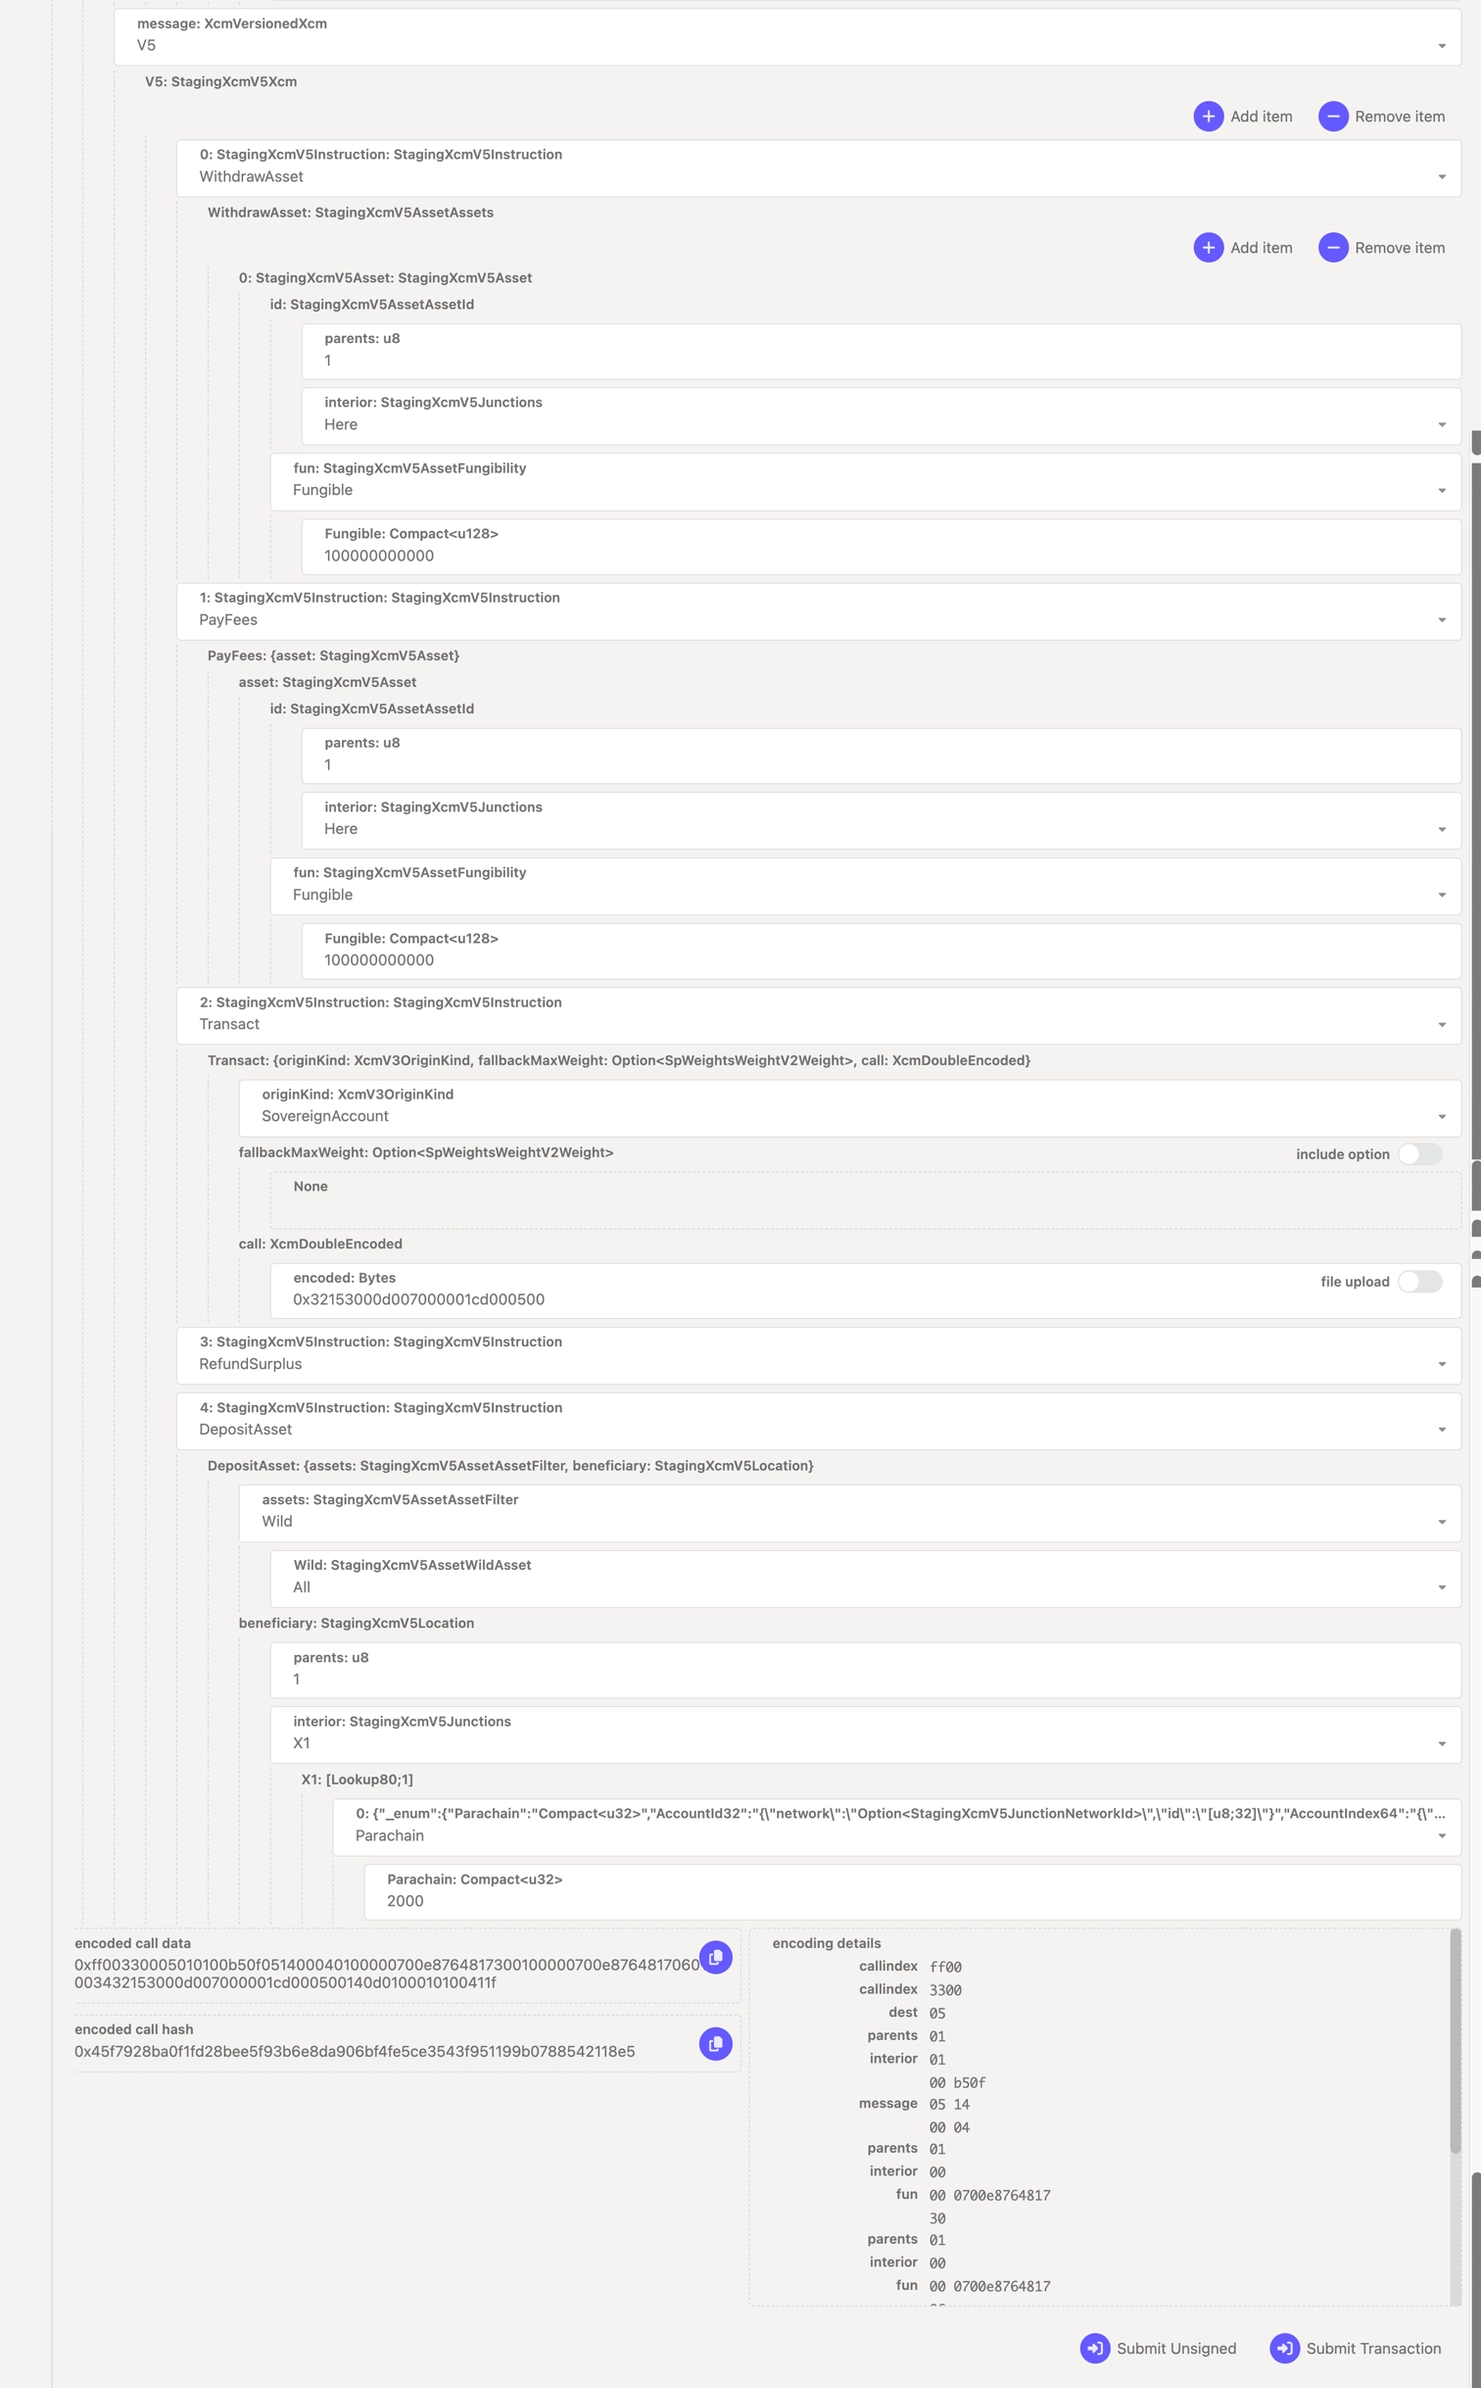
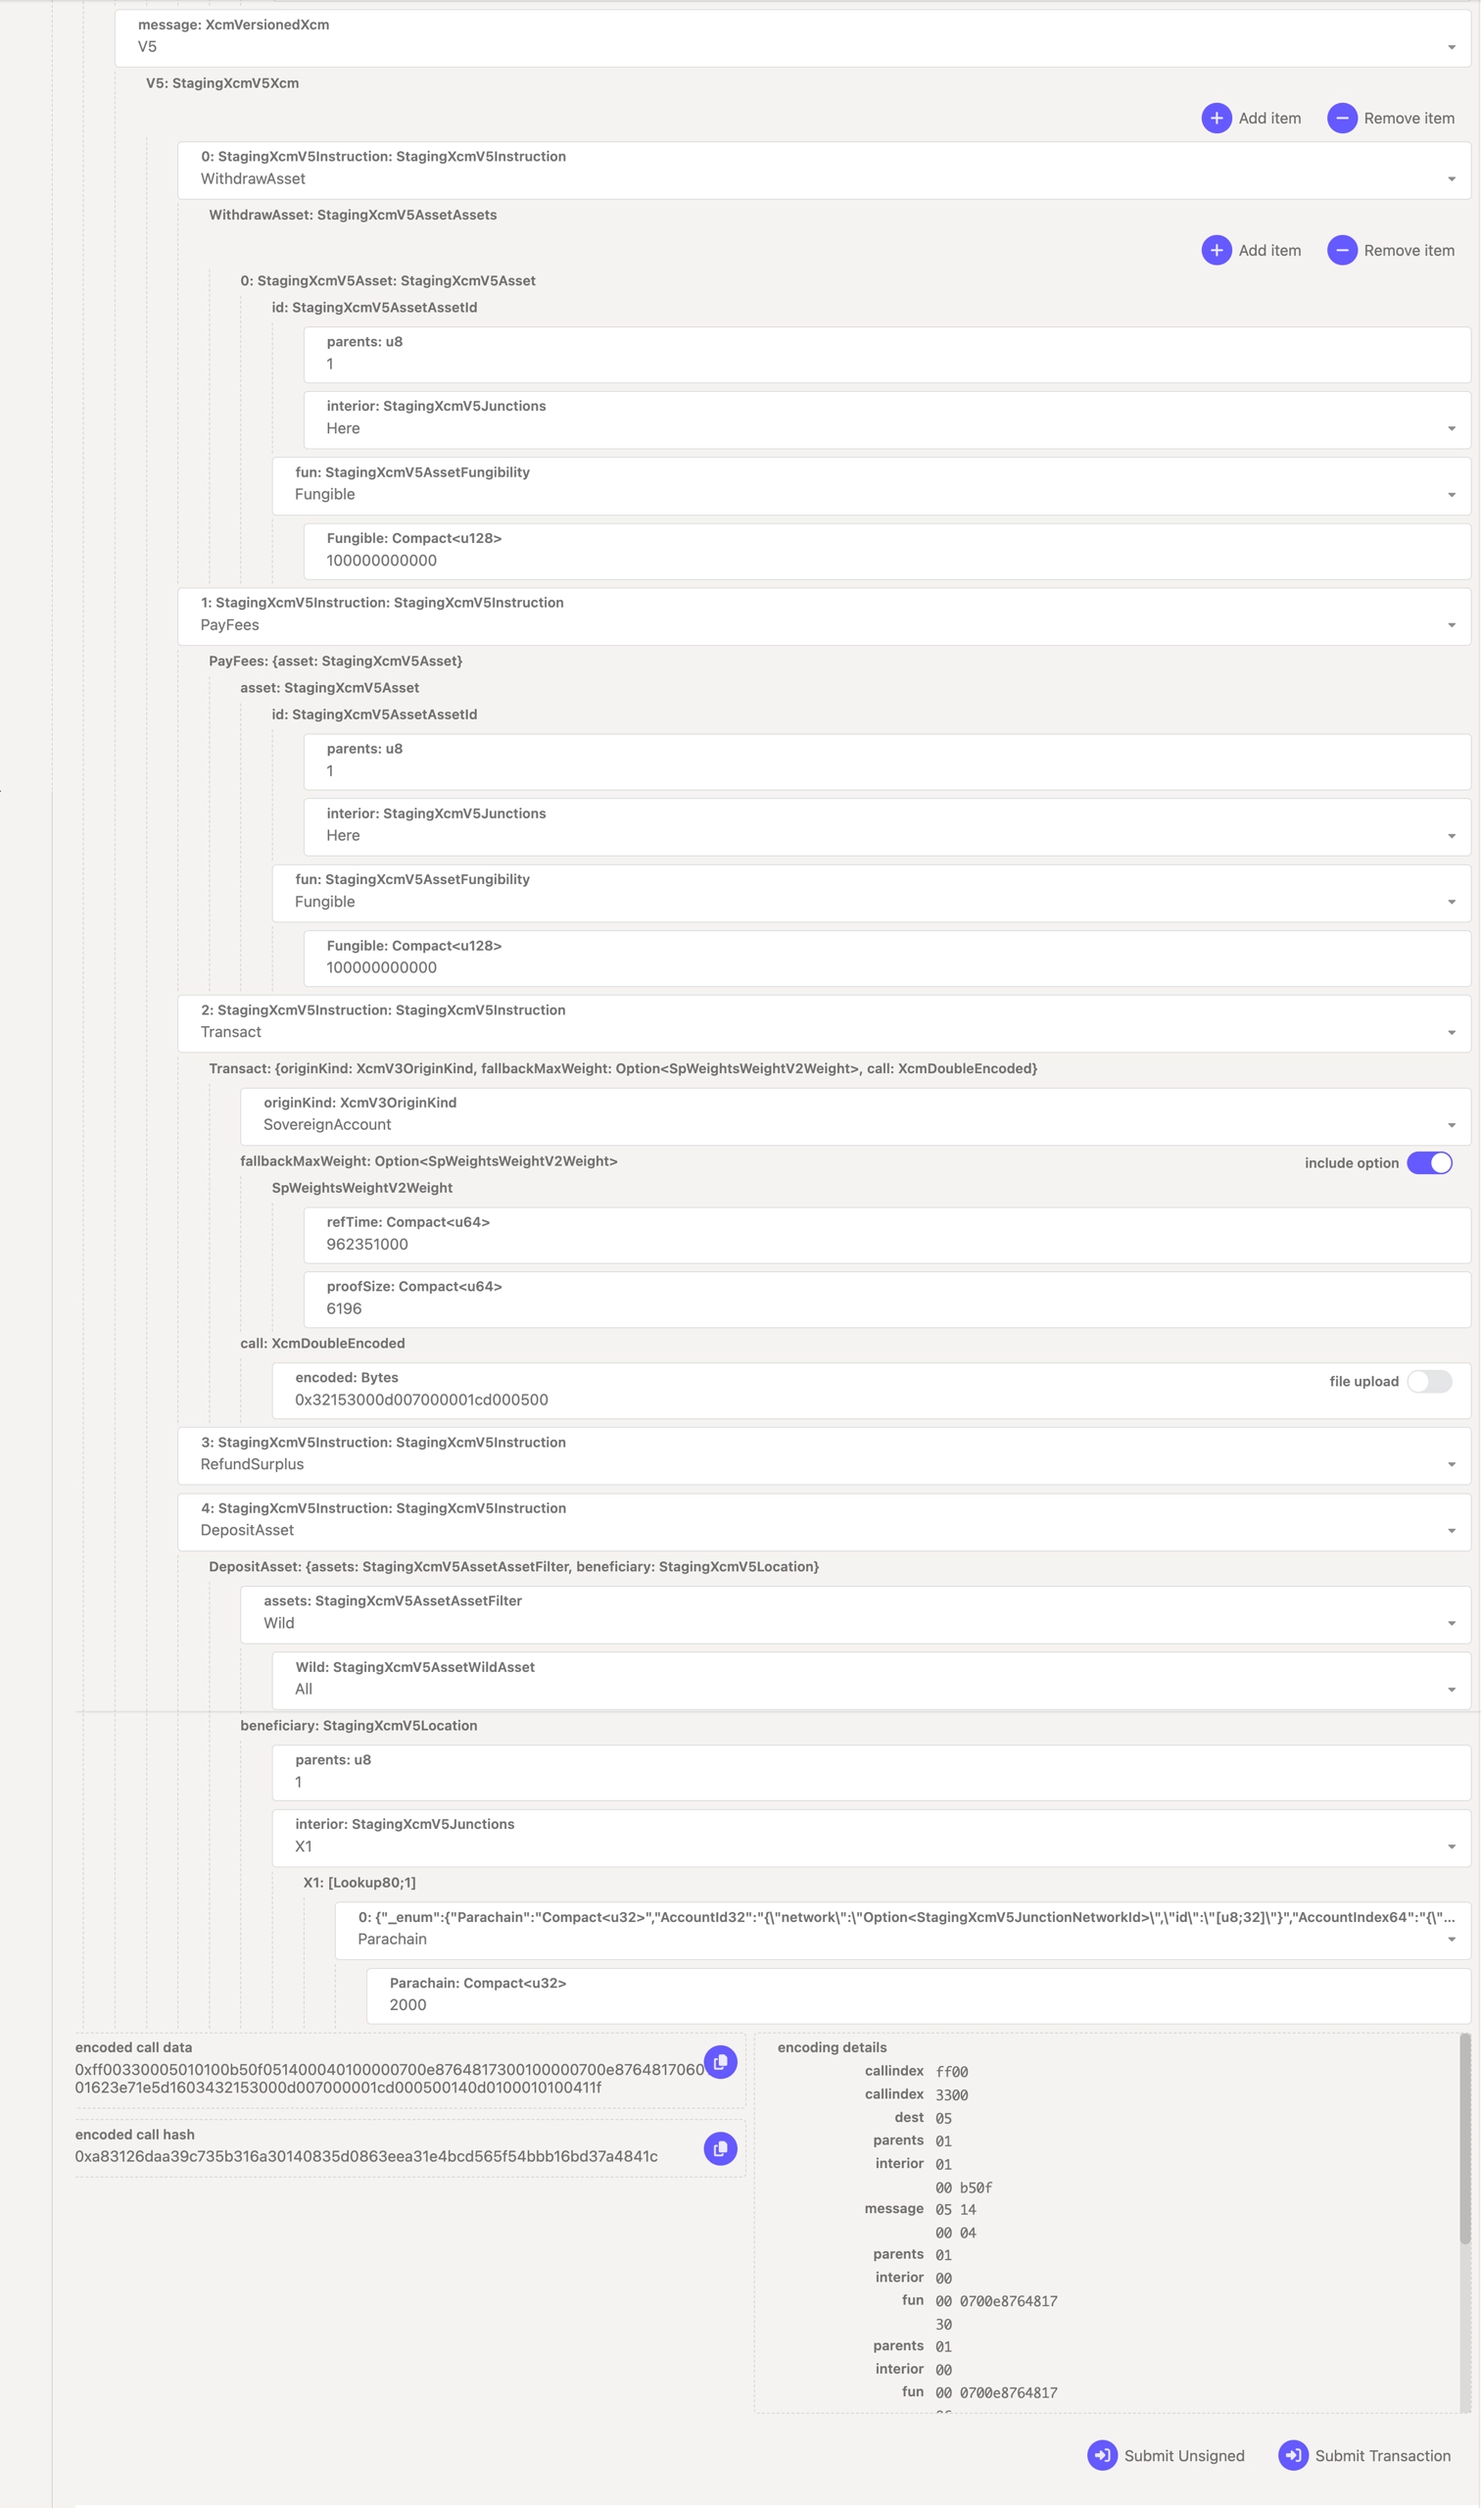
Fix Transact instruction parameter name and update screenshots
- Change requireWeightAtMost to fallbackMaxWeight (correct XCM v5 name)
- Update screenshots to show weight values filled in and use Alice account

diff --git a/parachains/runtime-maintenance/coretime-renewal.md b/parachains/runtime-maintenance/coretime-renewal.md
@@ -252,7 +252,7 @@ Here's how to submit this XCM using Acala (Parachain 2000) as an example:
         - **asset**: The asset to use for fees (must be a subset of the withdrawn assets)
     3. Add a **Transact** instruction with the following parameters:
         - **originKind**: Use `SovereignAccount`
-        - **requireWeightAtMost**: Use the weight calculated previously (specify both `refTime` and `proofSize`)
+        - **fallbackMaxWeight**: Use the weight calculated previously (specify both `refTime` and `proofSize`)
         - **call**: Use the encoded call data generated before
     4. Add a **RefundSurplus** instruction to return unused fees from the fees register to the holding register.
     5. Add a **DepositAsset** instruction to return remaining funds:
